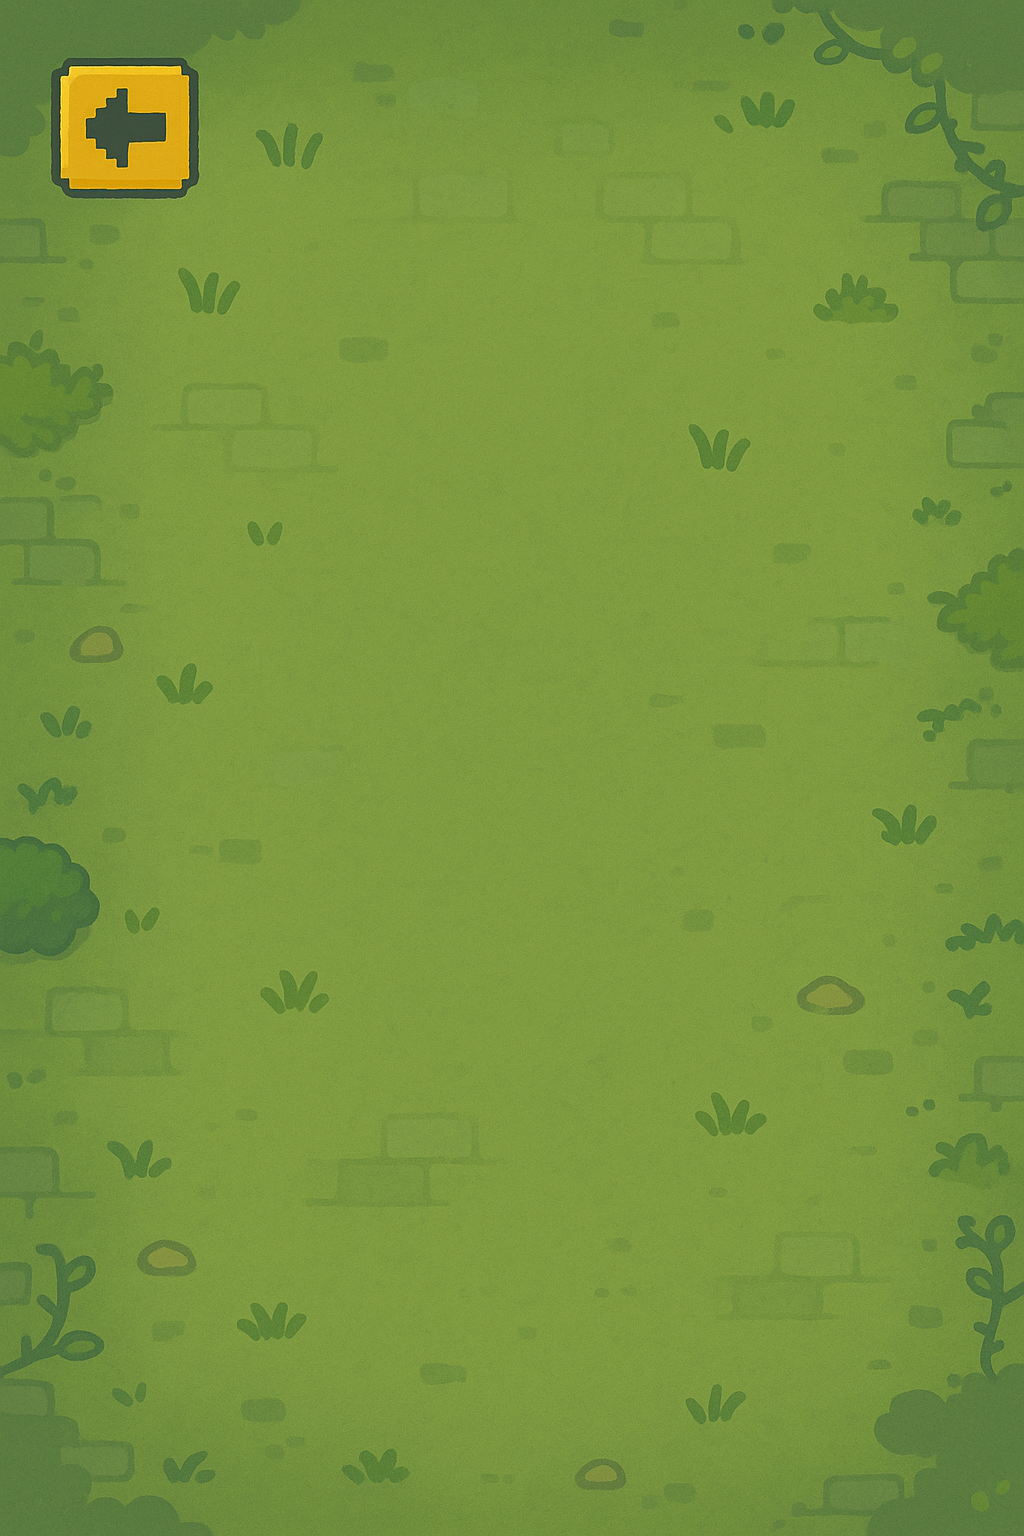
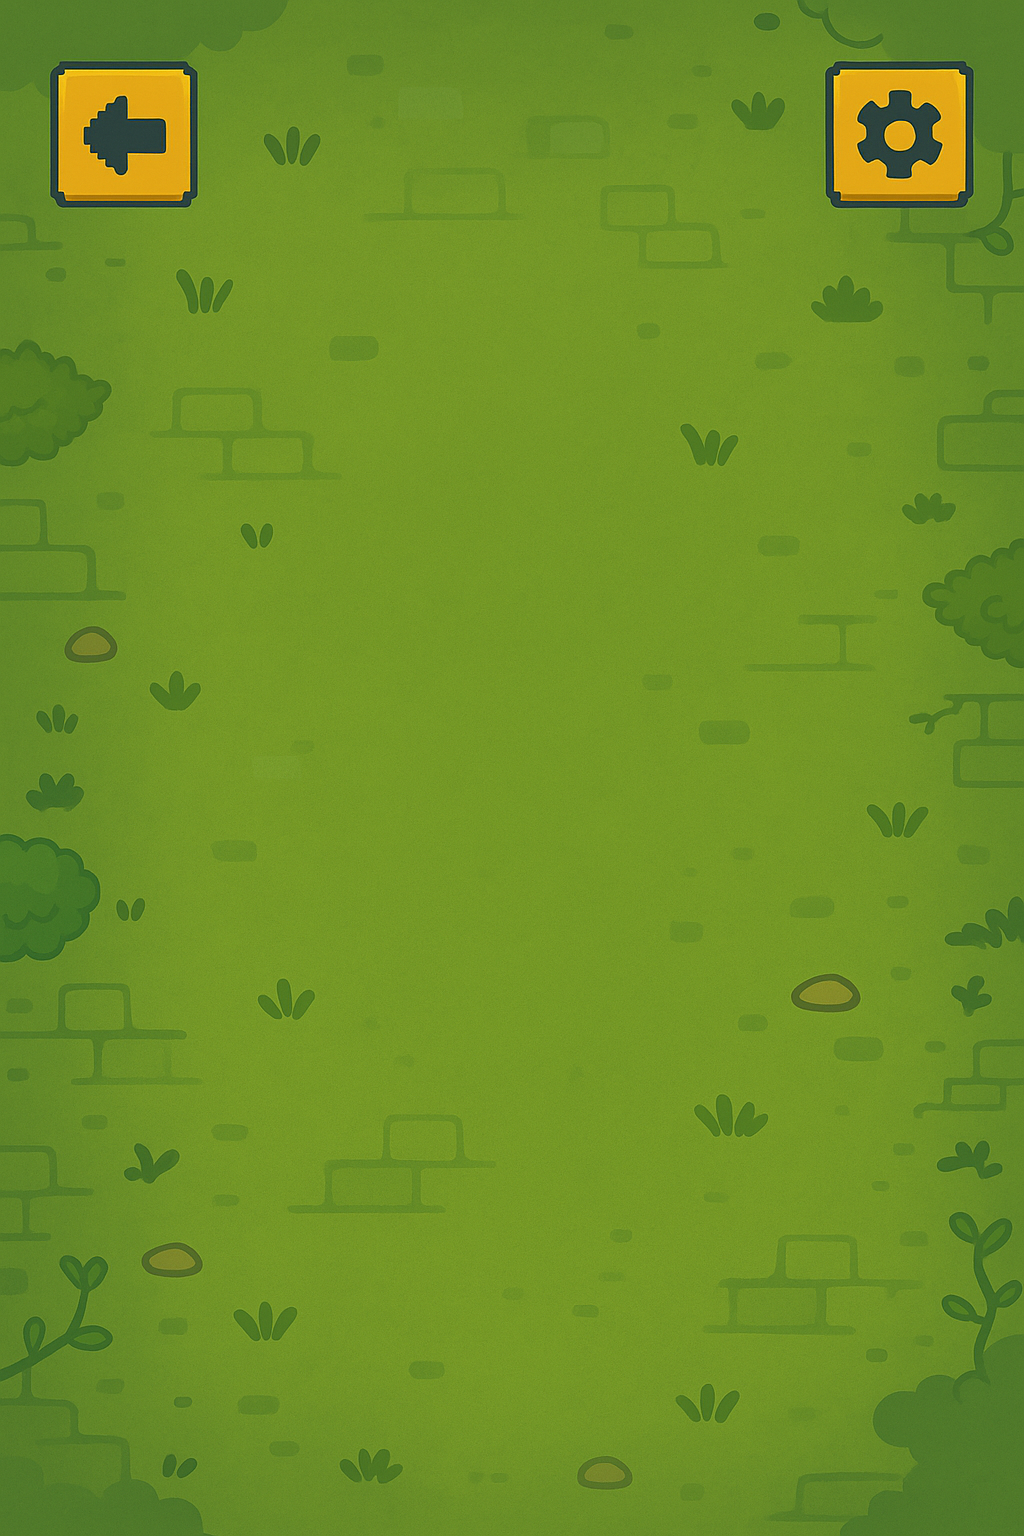
add setting button and setting background

diff --git a/style.css b/style.css
@@ -48,6 +48,17 @@ body {
   display: block;
 }
 
+#devImage {
+  position: fixed;
+  background: url('images/development.webp') no-repeat center center;
+  background-size: contain;
+  z-index: 500;
+  width: 100vw;
+  height: 100vh;
+  display: none;
+  pointer-events: none;
+}
+
 #gameUI {
   position: fixed;
   z-index: -1;  
@@ -58,6 +69,7 @@ body {
   display: none;
   pointer-events: none;
 }
+
 
 table {
   border-collapse: collapse;
@@ -178,6 +190,17 @@ td {
   opacity: 0;            
 }
 
+#settingBtn {
+  position: absolute;
+  top: 4%;
+  left: 59.5%;
+  width: 4.5%;
+  height: 9%;
+  z-index: 10;
+  cursor: pointer;  
+  opacity: 0;            
+}
+
 /*手機通用(應該吧? */
 #playBtn {
   top: 57%;
@@ -236,9 +259,16 @@ td {
     width: 12%;
     height: 8%;
   }
+
+  #backBtn {
+    top: 11%;
+    left: 82%;
+    width: 12%;
+    height: 8%;
+  }
 }
 
-@media screen and (min-width: 400px) and (max-width: 490px) { /*XR */
+@media screen and (min-width: 400px) and (max-width: 490px) and (max-height: 900px){ /*XR */
   #playBtn {
     top: 58%;
     left: 20%;
@@ -267,12 +297,63 @@ td {
   }
 
   #backBtn {
-    top: 18%;
+    top: 19%;
     left: 6%;
     width: 12%;
     height: 5%;
   }
+
+  #settingBtn {
+    top: 19%;
+    left: 82%;
+    width: 12%;
+    height: 5%;
+  }
 }
+
+@media screen and (min-width: 400px) and (max-width: 430px) and (min-height:900px) and (max-height:930px) { /* A51 71 */
+  #playBtn {
+    top: 58%;
+    left: 20%;
+    width: 60%;
+    height: 10%;
+  }
+
+  #easyBtn, #middleBtn, #hardBtn {
+    left: 25%;
+    width: 50%;
+    height: 9%;
+  }
+
+  #easyBtn {
+    top: 39%;
+  }
+  #middleBtn {
+    top: 49%;
+  }
+  #hardBtn {
+    top: 60%;
+  }
+
+  #gameWrapper {
+    padding-top: 110px;
+  }
+
+  #backBtn {
+    top: 19.5%;
+    left: 6%;
+    width: 12%;
+    height: 5%;
+  }
+
+  #settingBtn {
+    top: 19.5%;
+    left: 82%;
+    width: 12%;
+    height: 5%;
+  }
+}
+
 
 @media screen and (min-width: 380px) and (max-width: 395px) { /*12pro */
   #playBtn {
@@ -314,6 +395,13 @@ td {
   #backBtn {
     top: 18%;
     left: 6%;
+    width: 12%;
+    height: 5%;
+  }
+
+  #settingBtn {
+    top: 18%;
+    left: 82%;
     width: 12%;
     height: 5%;
   }

diff --git a/script.js b/script.js
@@ -264,7 +264,7 @@ function move(dir) {
   draw();
   if (samePos(box, goal)) {
     const timeUsed = ((Date.now() - startTime) / 1000).toFixed(2);
-    document.getElementById('info').innerText = `✅ 過關！用時：${timeUsed} 秒`;
+    document.getElementById('info').innerText = `過關！用時：${timeUsed} 秒`;
     document.getElementById('nextBtn').style.display = 'inline-block';
     document.getElementById('resetBtn').style.display = 'none';
     gameEnded = true;
@@ -275,7 +275,7 @@ function move(dir) {
   const remaining = Math.max(0, perfectSteps - steps);
 
   if (remaining <= 0 && !samePos(box, goal)) {
-    document.getElementById('info').innerText = "❌ 遊戲失敗，步數用完了！";
+    document.getElementById('info').innerText = "遊戲失敗，步數用完了！";
     document.getElementById('resetBtn').style.display = 'inline-block';
     document.getElementById('nextBtn').style.display = 'none';
     gameEnded = true;
@@ -374,3 +374,11 @@ document.addEventListener("contextmenu", e => e.preventDefault());
 document.body.addEventListener('touchmove', function (e) {
   e.preventDefault();
 }, { passive: false });
+
+document.getElementById('settingBtn').addEventListener('click', () => {
+  const devImage = document.getElementById('devImage');
+  devImage.style.display = 'block';
+  setTimeout(() => {
+    devImage.style.display = 'none';
+  }, 1500);
+});

diff --git a/index.html b/index.html
@@ -25,6 +25,8 @@
   <div id="gameUI"></div>
     <div id="gameWrapper">
       <button id="backBtn"></button>
+      <div id="devImage"></div>
+      <button id="settingBtn"></button>
     <h1 style="opacity: 0;">asd</h1>
     <div id="levelIndicator"></div>
     <div id="stepLimit"></div>
